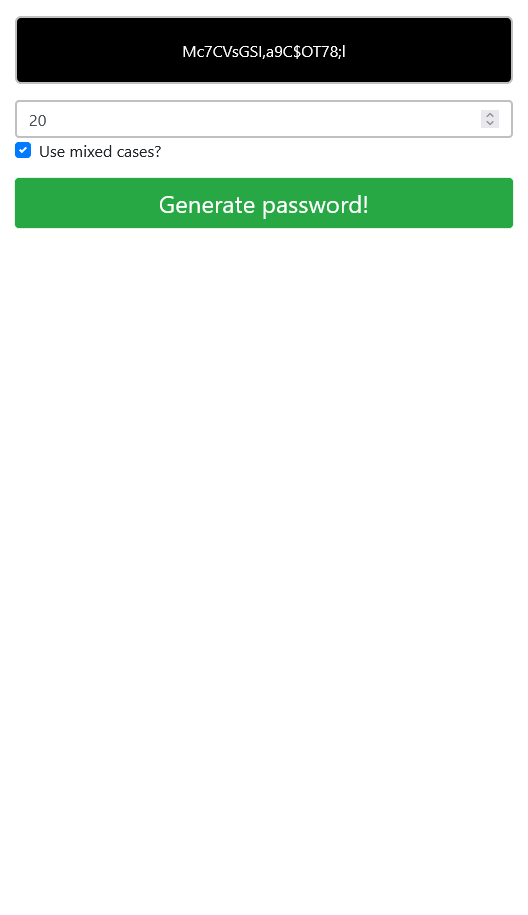
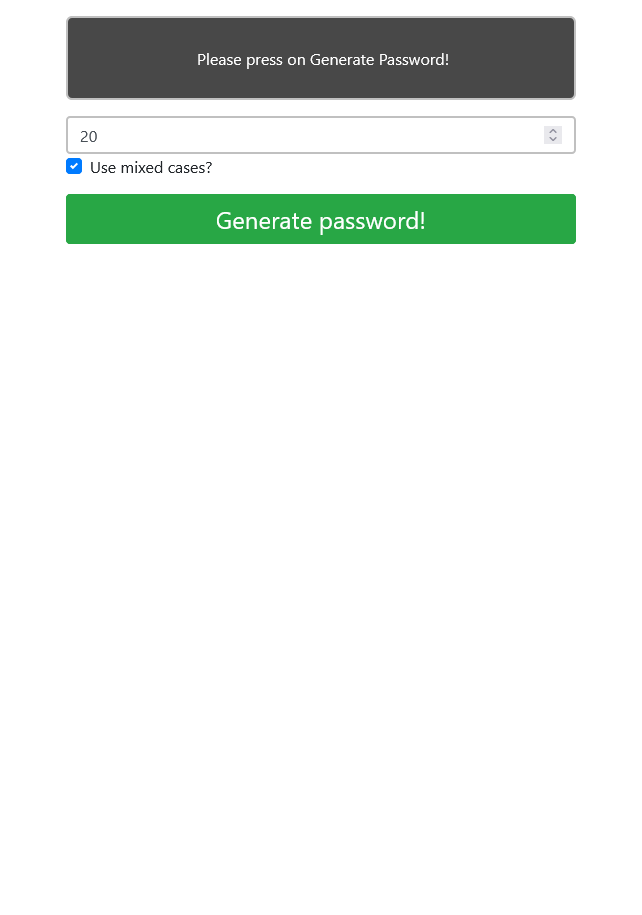
README bearbeitet

Changed region(s): [[0.0, 0.0, 1.0, 0.2754]]

diff --git a/css/style.css b/css/style.css
@@ -4,16 +4,16 @@ body {
   }
   
   #output {
- background-color: black;
+ background-color: 	rgb(72,72,72);
     color: white;
     width: 100%;
     margin-bottom: 1rem;
     padding: 1rem 0;
     border: 2px solid #c0c0c0;
     border-radius: 6px;
-    font-size: 3rem;
+    font-size: 100%;
     line-height: 3rem;
-    overflow-wrap: break-word;
+   
 
   }
   
@@ -28,9 +28,4 @@ body {
    
   }
 
-  @media (max-width: 1440px) {
-    #output {
-      font-size: 1rem;
-      line-height: 2rem;
-    }
-  }
+  

diff --git a/index.html b/index.html
@@ -16,7 +16,7 @@
 
   <body>
     <div class="container">
-      <div id="output" class="text-center">&nbsp;</div>
+      <div id="output" class="text-center">&nbsp;Please press on Generate Password! </div>
 
       <form id="password-form">
         <div class="row">
@@ -26,6 +26,7 @@
               class="form-control"
               id="length"
               value="20"
+             
               required
             />
           </div>

diff --git a/README.MD b/README.MD
@@ -1,55 +1,56 @@
-# Password-Generator-App
+# Password generator app
 
-# Project – Password-Generator-App
+# Project – Password Generator App
 
-Dies ist eine Lösung für eine Herausforderung bei der DCI(Digital Career Institut). Die Herausforderungen helfen Ihnen, Ihre Programmierfähigkeiten zu verbessern, indem Sie realistische Projekte erstellen.
+This is a solution to a challenge at DCI (Digital Career Institute). The challenges help you improve your programming skills by creating realistic projects.
 
-## Inhaltsverzeichnis
+## Table of contents
 
-- [Übersicht](#Übersicht)
+- [Overview](#Overview)
   - [Screenshot](#screenshot)
   - [Links](#links)
-- [Mein Prozess](#my-process)
-  - [Erstellt mit](#built-with)
-  - [Was ich gelernt habe](#what-i-learned)
-  - [Fortsetzung der Entwicklung](#continued-development)
-- [Autor](#Autor)
+- [My Process](#my-process)
+  - [Built with](#built-with)
+  - [What I learned](#what-i-learned)
+  - [Continued Development](#continued-development)
+- [Author](#Author)
 
 
 
-## Überblick
+## Overview
 
-### Bildschirmfoto
+### Screenshot
 
 ![Screenshot](images/password-generator.png)
 
 ### Links
 
-- Lösungs-URL: [Github-Lösungen](https://github.com/Adem-Tozlu/Project-Password-Generator)
-- Live-Site-URL: [Website Sweet-Spot-V4](https://project-sweet-spot-v4.vercel.app/)
+- Solution URL: [Github Solutions](https://github.com/Adem-Tozlu/Project-Password-Generator)
+- Live Site URL: [Website Password-Generator](project-password-generator-chi.vercel.app)
 
-## Mein Prozess
+## My process
 
-### Gebaut mit
+### Built with
 
-- Semantisches HTML5-Markup
-- Benutzerdefinierte CSS-Eigenschaften
-- Mobile-First-Workflow
-
-
-### Was ich gelernt habe
+- Semantic HTML5 markup
+- Custom CSS properties
+- Mobile-first workflow
+- JavaScript
 
 
-Im Verlauf dieses Projekts habe ich meine Fähigkeiten im Bereich CSS verbessert, insbesondere was die Verwendung von "hover" betrifft, und ich habe gelernt, wann und wie ich den "article"-Tag am besten einsetze.
+### What I have learned
 
 
-### Weiterentwicklung
+Over the course of this project I was able to significantly develop my Javascript skills, in particular I learned how to edit and access HTML elements via a Javascript file.
 
-In Zukunft plane ich, meine Fähigkeiten im CSS-Bereich weiter zu verbessern, insbesondere im Zusammenhang mit Flexbox und Grid. Mein Ziel ist es, komplexere Websites zu erstellen und diese besser zu gestalten. Darüber hinaus möchte ich auch an meinen Fähigkeiten im Erstellen von Animationen arbeiten und mich in diesem Bereich weiterentwickeln!
+### Further development
+
+I plan to continue improving my Javascript skills in the future. I'm currently working on deepening my knowledge of combining HTML and Javascript.
 
 
-## Autor
+## Author
 
 - Website - [Github](https://github.com/Adem-Tozlu)
-- Frontend-Mentor – [@Adem-Tozlu](https://www.frontendmentor.io/profile/Adem-Tozlu)
+- Frontend Mentor – [@Adem-Tozlu](https://www.frontendmentor.io/profile/Adem-Tozlu)
 - Linkedin - [@Adem-Tozlu](https://www.linkedin.com/in/adem-tozlu-8906b52a5)
+

diff --git a/README_DE.MD b/README_DE.MD
@@ -1,0 +1,55 @@
+# Password-Generator-App
+
+# Project – Password-Generator-App
+
+Dies ist eine Lösung für eine Herausforderung bei der DCI(Digital Career Institut). Die Herausforderungen helfen Ihnen, Ihre Programmierfähigkeiten zu verbessern, indem Sie realistische Projekte erstellen.
+
+## Inhaltsverzeichnis
+
+- [Übersicht](#Übersicht)
+  - [Screenshot](#screenshot)
+  - [Links](#links)
+- [Mein Prozess](#my-process)
+  - [Erstellt mit](#built-with)
+  - [Was ich gelernt habe](#what-i-learned)
+  - [Fortsetzung der Entwicklung](#continued-development)
+- [Autor](#Autor)
+
+
+
+## Überblick
+
+### Bildschirmfoto
+
+![Screenshot](images/password-generator.png)
+
+### Links
+
+- Lösungs-URL: [Github-Lösungen](https://github.com/Adem-Tozlu/Project-Password-Generator)
+- Live Site URL: [Website Password-Generator](project-password-generator-chi.vercel.app)
+
+## Mein Prozess
+
+### Gebaut mit
+
+- Semantisches HTML5-Markup
+- Benutzerdefinierte CSS-Eigenschaften
+- Mobile-First-Workflow
+- Javascript
+
+
+### Was ich gelernt habe
+
+
+Im Verlauf dieses Projekts konnte ich meine Javascript-Fähigkeiten erheblich ausbauen, insbesondere habe ich gelernt, wie man HTML-Elemente über eine Javascript-Datei bearbeitet und aufruft."
+
+### Weiterentwicklung
+
+Ich plane, meine Javascript-Fähigkeiten in Zukunft weiter zu verbessern. Aktuell arbeite ich daran, meine Kenntnisse im Verbinden von HTML und Javascript zu vertiefen.
+
+
+## Autor
+
+- Website - [Github](https://github.com/Adem-Tozlu)
+- Frontend-Mentor – [@Adem-Tozlu](https://www.frontendmentor.io/profile/Adem-Tozlu)
+- Linkedin - [@Adem-Tozlu](https://www.linkedin.com/in/adem-tozlu-8906b52a5)
